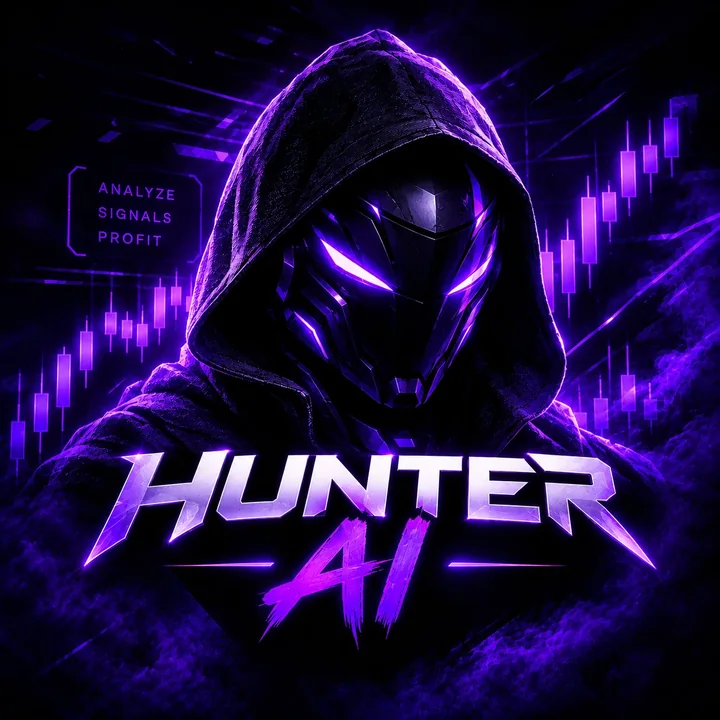
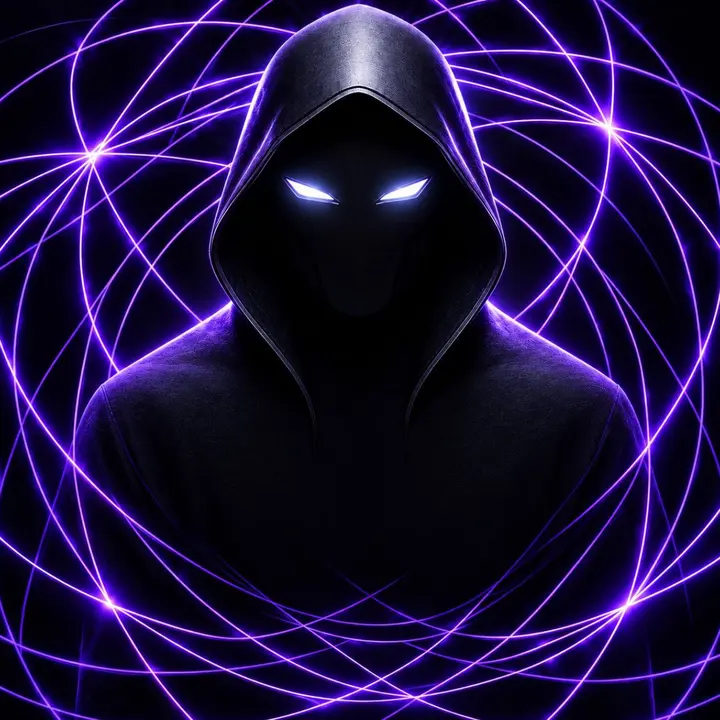
Stub site: new hooded-figure image in the planet
Claude-Session: https://claude.ai/code/session_01BhzZ7NEYkxwGS4vvcmi99u

diff --git a/server/public/site.html b/server/public/site.html
@@ -56,7 +56,7 @@ p{--d:1.25s}
 <main>
   <div class="logo" id="logo" aria-hidden="true">
     <svg class="back" id="back" viewBox="-250 -170 500 340"></svg>
-    <div class="planet" id="planet"><i class="edge" style="transform:translateZ(-2px)"></i><i class="edge" style="transform:translateZ(-4px)"></i><i class="edge" style="transform:translateZ(-6px)"></i><i class="edge" style="transform:translateZ(-8px)"></i><i class="edge" style="transform:translateZ(-10px)"></i><div class="core" id="core"><img id="face" src="/img/hunter.webp" width="720" height="720" alt="" draggable="false"></div></div>
+    <div class="planet" id="planet"><i class="edge" style="transform:translateZ(-2px)"></i><i class="edge" style="transform:translateZ(-4px)"></i><i class="edge" style="transform:translateZ(-6px)"></i><i class="edge" style="transform:translateZ(-8px)"></i><i class="edge" style="transform:translateZ(-10px)"></i><div class="core" id="core"><img id="face" src="/img/hunter.webp?v=2" width="720" height="720" alt="" draggable="false"></div></div>
     <svg class="front" id="front" viewBox="-250 -170 500 340"></svg>
   </div>
   <h1><span class="ln" style="--d:.35s">Добро пожаловать</span><span class="ln" style="--d:.65s">в <span>Hunter AI</span></span></h1>
